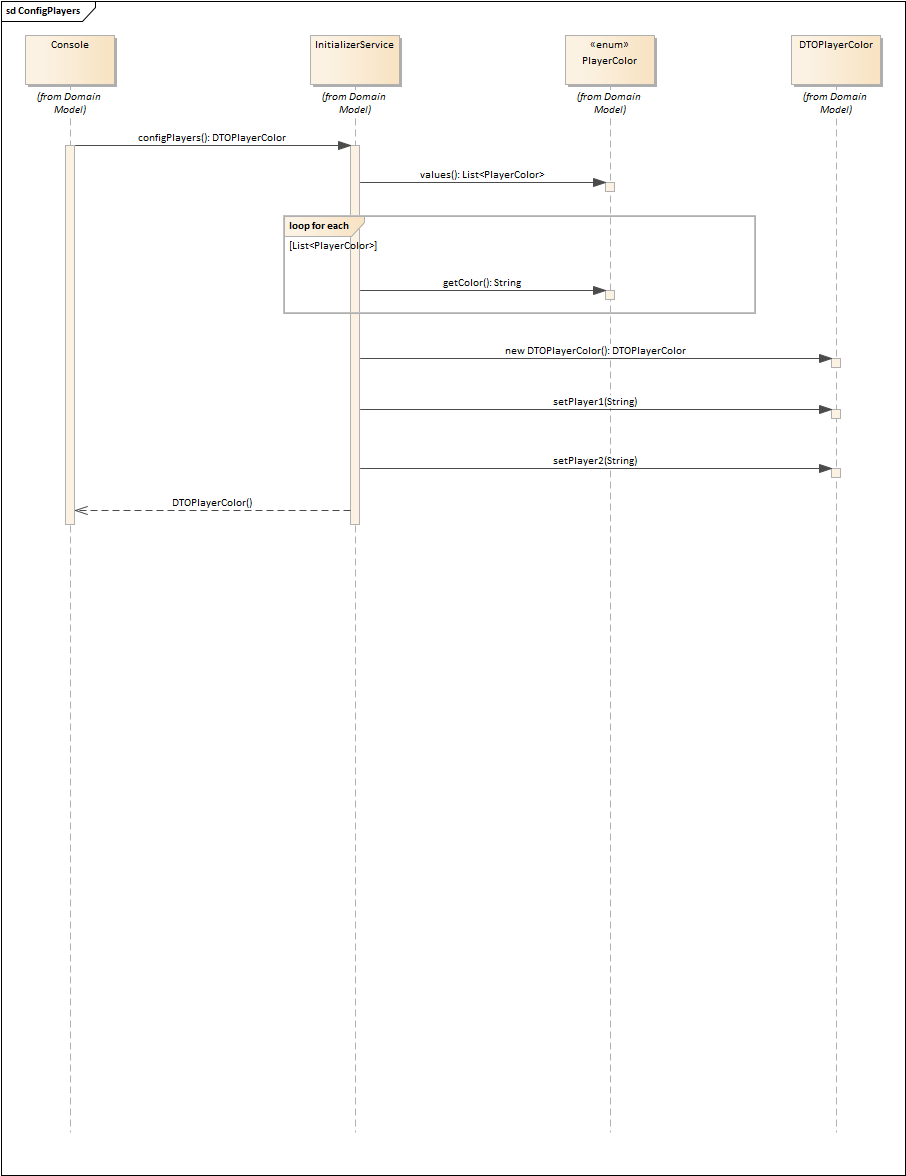
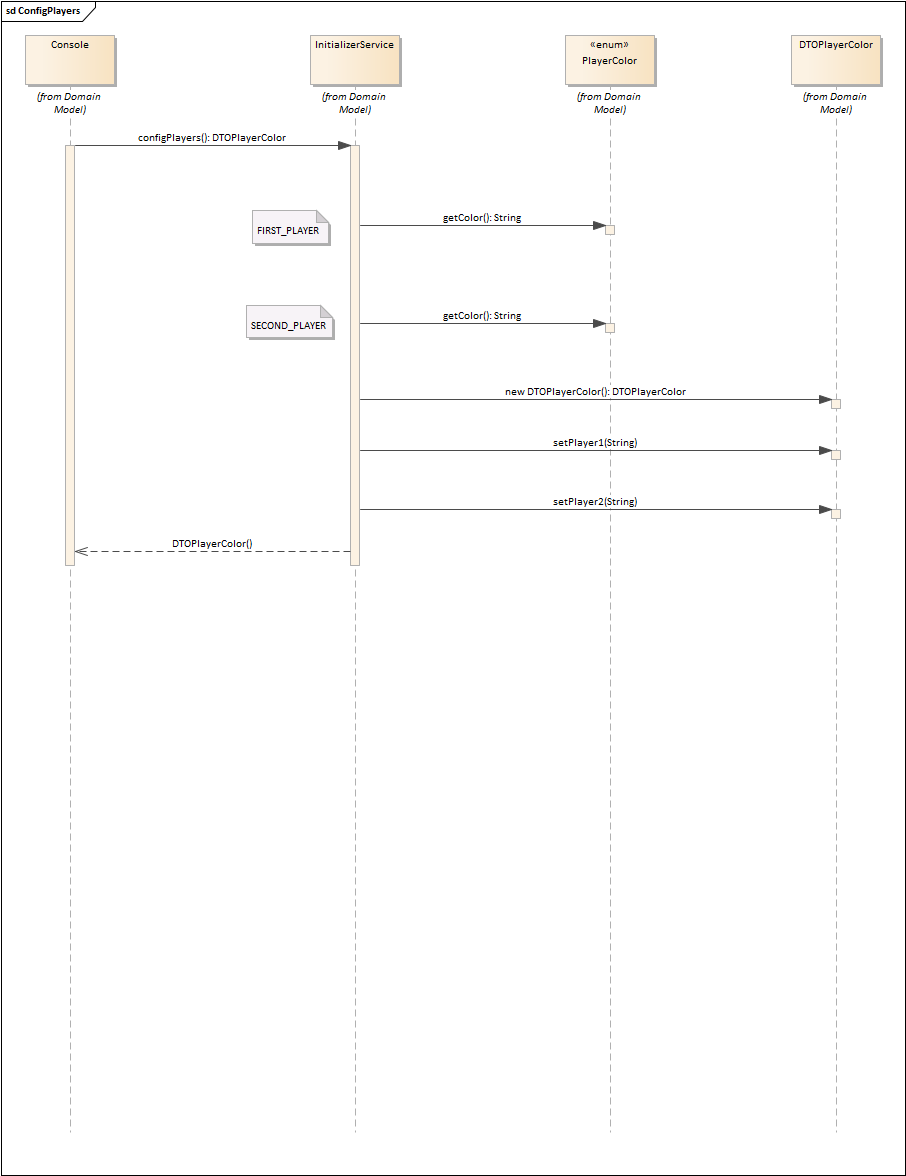
Config player functionality
Use case that allows to config player names. Console interactions included

diff --git a/src/main/java/frontend/Console.java b/src/main/java/frontend/Console.java
@@ -1,9 +1,43 @@
 package frontend;
 
+import dtos.DTOPlayerColor;
+import services.InitializerService;
+
+import java.util.Scanner;
+
 public class Console {
 
+    static Scanner scanner = new Scanner(System.in);
 
     public static void main(String[] args) {
+        //create scanner instance to read from the console
+
+
+        initializeGame();
+
+    }
+
+
+    private static void initializeGame(){
+
+
+
+        //welcome text
+        System.out.println(Text.INTRODUCIONG_TEXT);
+
+        //create service instace
+        InitializerService service = new InitializerService();
+
+        //get player names
+        DTOPlayerColor dtoPlayerColor = service.configPlayers();
+
+        System.out.print(Text.PLAYER_CONFIG_TEXT + dtoPlayerColor.getPlayer1() +": ");
+        String namePlayer1 = scanner.nextLine();
+
+        System.out.print(Text.PLAYER_CONFIG_TEXT + dtoPlayerColor.getPlayer2() +": ");
+        String namePlayer2 = scanner.nextLine();
+
+
 
     }
 }

diff --git a/src/main/java/model/PlayerColor.java b/src/main/java/model/PlayerColor.java
@@ -1,4 +1,29 @@
 package model;
 
 public enum PlayerColor {
+
+    COLOR_FIRST_PLAYER(1,"Blanco",6),
+    COLOR_SECOND_PLAYER(2,"Negro",2);
+
+    private final int order;
+    private final String color;
+    private final int minimumRowToPromote;
+
+    private PlayerColor(int order, String color, int minimumRowToPromote) {
+        this.order = order;
+        this.color = color;
+        this.minimumRowToPromote = minimumRowToPromote;
+    }
+
+    public int getOrder() {
+        return order;
+    }
+
+    public String getColor() {
+        return color;
+    }
+
+    public int getMinimumRowToPromote() {
+        return minimumRowToPromote;
+    }
 }

diff --git a/src/main/java/services/InitializerService.java b/src/main/java/services/InitializerService.java
@@ -1,4 +1,22 @@
 package services;
 
+import dtos.DTOPlayerColor;
+import model.PlayerColor;
+
 public class InitializerService {
+
+    public DTOPlayerColor configPlayers(){
+
+        //obtaining colors
+        String color1 = PlayerColor.COLOR_FIRST_PLAYER.getColor();
+        String color2 = PlayerColor.COLOR_SECOND_PLAYER.getColor();
+
+        //configuring DTO
+        DTOPlayerColor dto = new DTOPlayerColor();
+        dto.setPlayer1(color1);
+        dto.setPlayer2(color2);
+
+        //returning DTO
+        return dto;
+    }
 }

diff --git a/src/main/java/dtos/DTOPlayerColor.java b/src/main/java/dtos/DTOPlayerColor.java
@@ -1,4 +1,23 @@
 package dtos;
 
 public class DTOPlayerColor {
+
+    private String player1;
+    private String player2;
+
+    public String getPlayer1() {
+        return player1;
+    }
+
+    public void setPlayer1(String player1) {
+        this.player1 = player1;
+    }
+
+    public String getPlayer2() {
+        return player2;
+    }
+
+    public void setPlayer2(String player2) {
+        this.player2 = player2;
+    }
 }

diff --git a/src/main/java/frontend/Text.java b/src/main/java/frontend/Text.java
@@ -1,0 +1,7 @@
+package frontend;
+
+public class Text {
+
+    public static final String INTRODUCIONG_TEXT= "COMENZANDO JUEGO: POR FAVOR ESCRIBA LOS NOMBRES DE CADA JUGADOR";
+    public static final String PLAYER_CONFIG_TEXT = "Nombre jugador ";
+}
